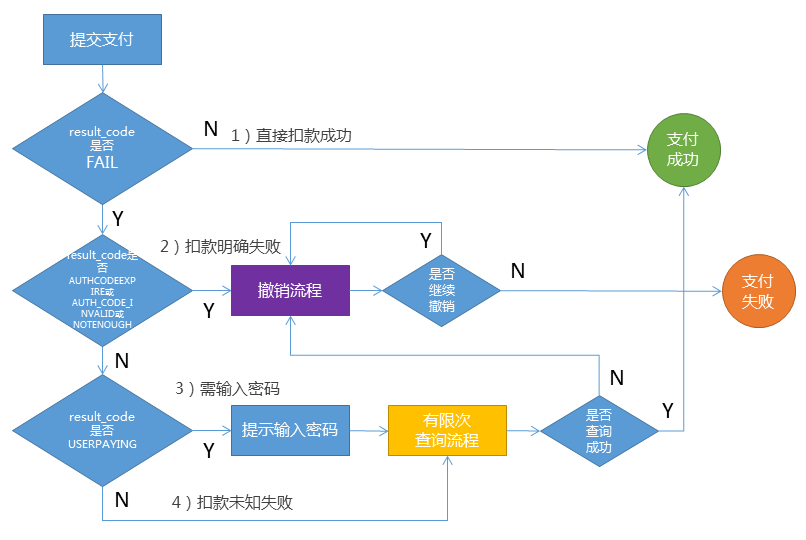
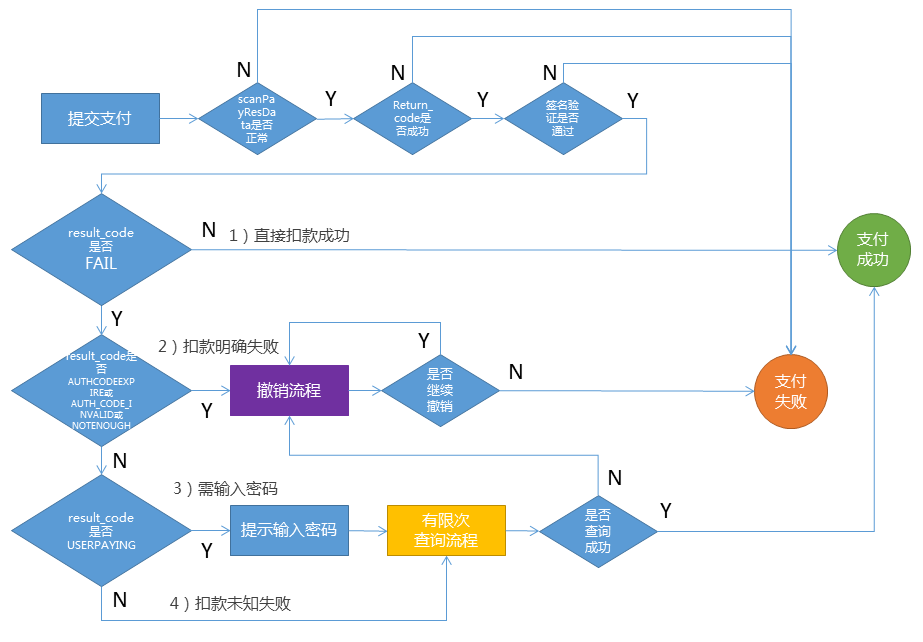
update
update

diff --git a/README.md b/README.md
@@ -188,6 +188,35 @@ public String getAuthCode(){
 
 （以上最佳实践已经在SDK的ScanPayBusiness里面封装好了）
 
+## 支付业务逻辑分支处理最佳实践  
+![img](https://raw.githubusercontent.com/grz/wxpay_scanpay_java_demo_proj/master/docs/asset/scanpaybusiness_resultlistener.png "被扫支付最佳实践")    
+
+ScanPayBusiness里面的ResultListener接口定义了支付流程中可能走到的8个分支，分别是：  
+```java
+ public interface ResultListener {
+        //API返回ReturnCode不合法，支付请求逻辑错误，请仔细检测传过去的每一个参数是否合法，或是看API能否被正常访问
+        void onFailByReturnCodeError(ScanPayResData scanPayResData);
+        //API返回ReturnCode为FAIL，支付API系统返回失败，请检测Post给API的数据是否规范合法
+        void onFailByReturnCodeFail(ScanPayResData scanPayResData);
+        //支付请求API返回的数据签名验证失败，有可能数据被篡改了
+        void onFailBySignInvalid(ScanPayResData scanPayResData);
+        //用户用来支付的二维码已经过期，提示收银员重新扫一下用户微信“刷卡”里面的二维码
+        void onFailByAuthCodeExpire(ScanPayResData scanPayResData);
+        //授权码无效，提示用户刷新一维码/二维码，之后重新扫码支付"
+        void onFailByAuthCodeInvalid(ScanPayResData scanPayResData);
+        //用户余额不足，换其他卡支付或是用现金支付
+        void onFailByMoneyNotEnough(ScanPayResData scanPayResData);
+        //支付失败
+        void onFail(ScanPayResData scanPayResData);
+        //支付成功
+        void onSuccess(ScanPayResData scanPayResData);
+    }
+```
+
+Demo里面用到的DefaultScanPayBusinessResultListener就是实现了以上这8个接口。
+这里有几点处理建议：  
+1. onFailByReturnCodeError、onFailByReturnCodeFail、onFailBySignInvalid这3种属于程序逻辑问题，建议商户自己做好日志监控，发现问题要及时让工程师进行定位处理；
+2. onFailByAuthCodeExpire、onFailByAuthCodeInvalid、onFailByMoneyNotEnough这三种属于用户自身的问题，建议商户把具体出错信息提示给用户，指导用户进行下一步操作。（具体出错信息可以通过scanPayResData.getErr_code_des()获取得到）
 
 ## 商户系统接入SDK最佳实践
 1. 生成一个新的订单out_trade_no
